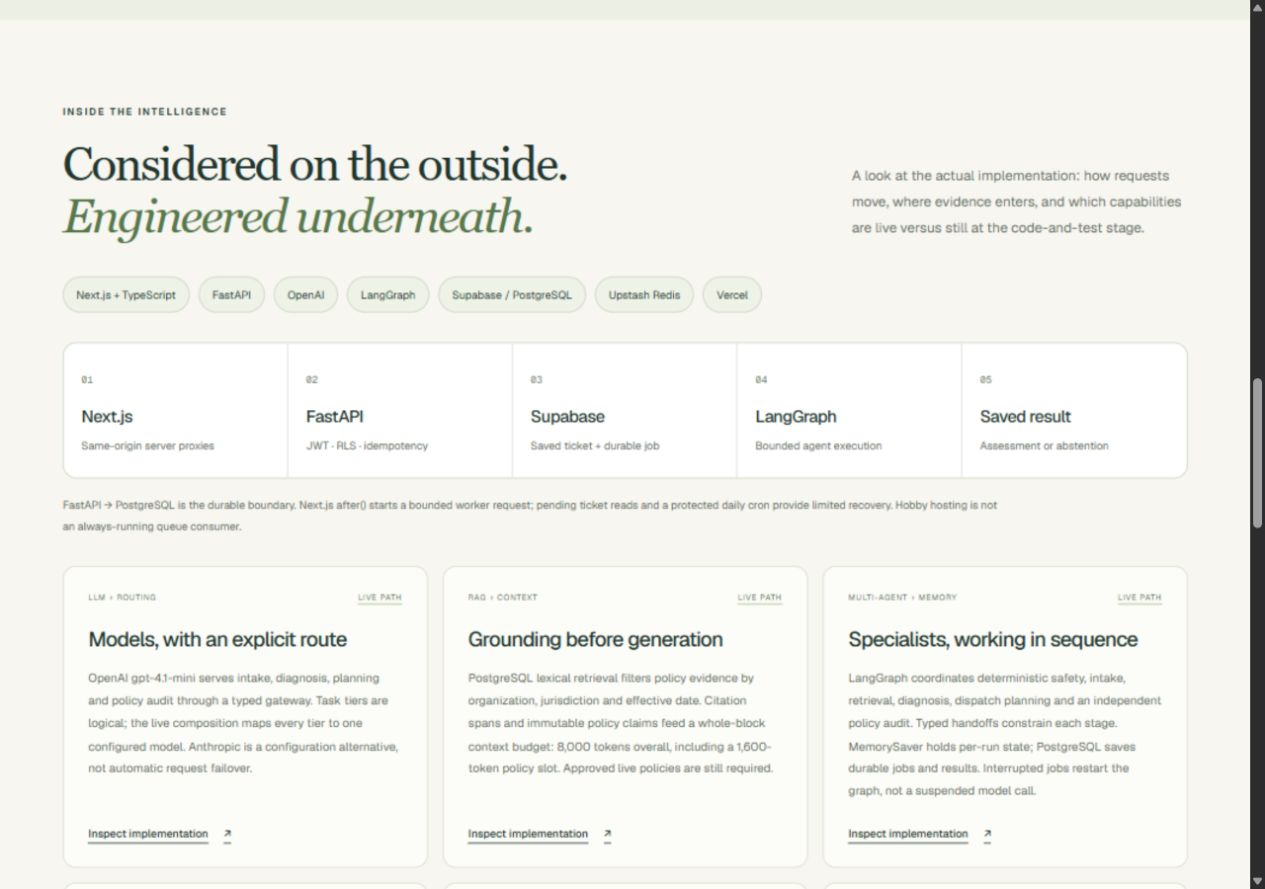
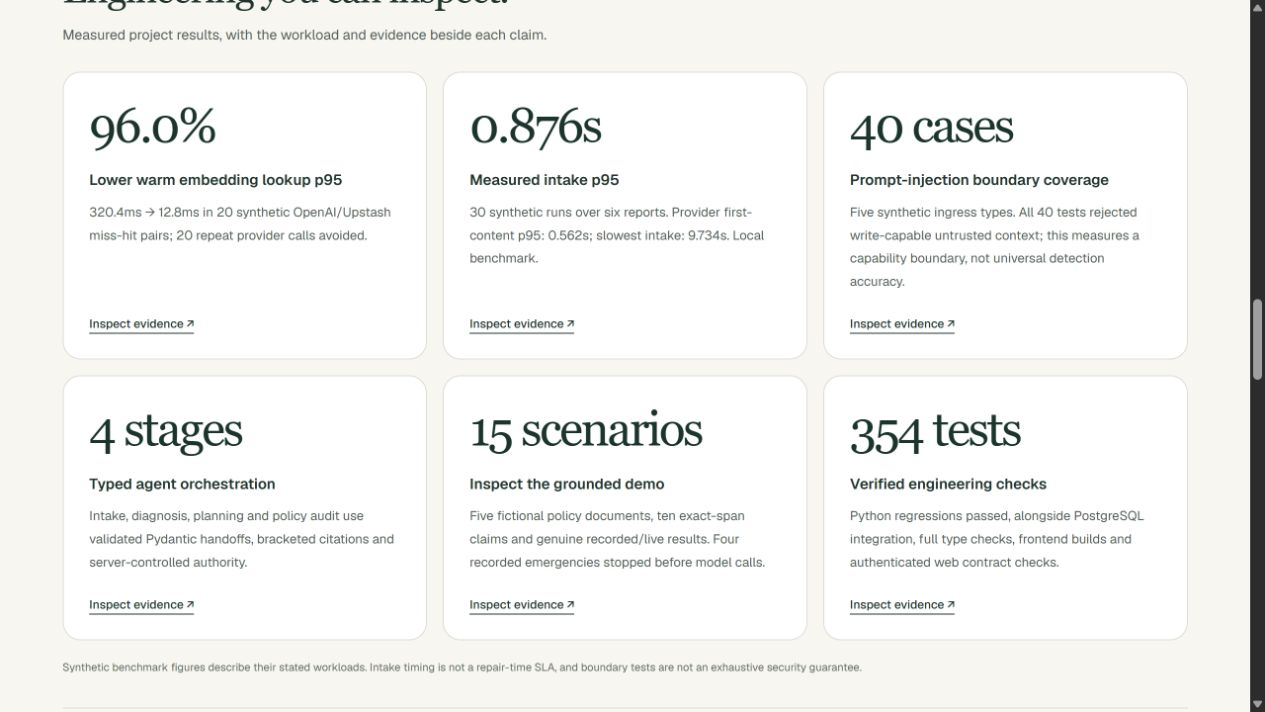
Record published results showcase and refresh README screenshot

diff --git a/docs/RELEASE-STATUS.md b/docs/RELEASE-STATUS.md
@@ -4,7 +4,9 @@ The README now contains concise action/implementation/result project bullets, a 
 
 The home-page engineering section now displays six visible results: 96.0% lower warm embedding lookup p95, 0.876s measured intake p95, forty prompt-boundary cases across five ingress types, four typed agent stages, fifteen fictional demo scenarios and 354 passing Python tests. Every card links to its report, tests or implementation. The previous synthetic-policy demo and authenticated runtime are unchanged.
 
-Local production build and frontend type checks passed. The exact injection evidence was rerun: forty parametrized cases plus one corpus-integrity check passed. Final web regression, CI and deployment evidence follows after publication.
+Local production build and frontend type checks passed. The exact injection evidence was rerun: forty parametrized cases plus one corpus-integrity check passed. Web proxy/authentication regressions passed. [Web quality](https://github.com/vishalgwu/tento-agents/actions/runs/40238807561) passed for implementation commit **cd3d41b**. The frontend was deployed to the existing Vercel project using the unchanged healthy API.
+
+Public verification confirmed all six expanded result cards, correct evidence links and responsive rendering at 1265px (three columns) and 558px (one column), without horizontal overflow. Production smoke checks passed for the main portal, API/database/Redis health, all four login entries, authentication and same-origin protection. The README engineering screenshot was refreshed from the deployed results section. No runtime/backend, credential, database-record or policy-source changes were made in this release.
 
 ---
 
